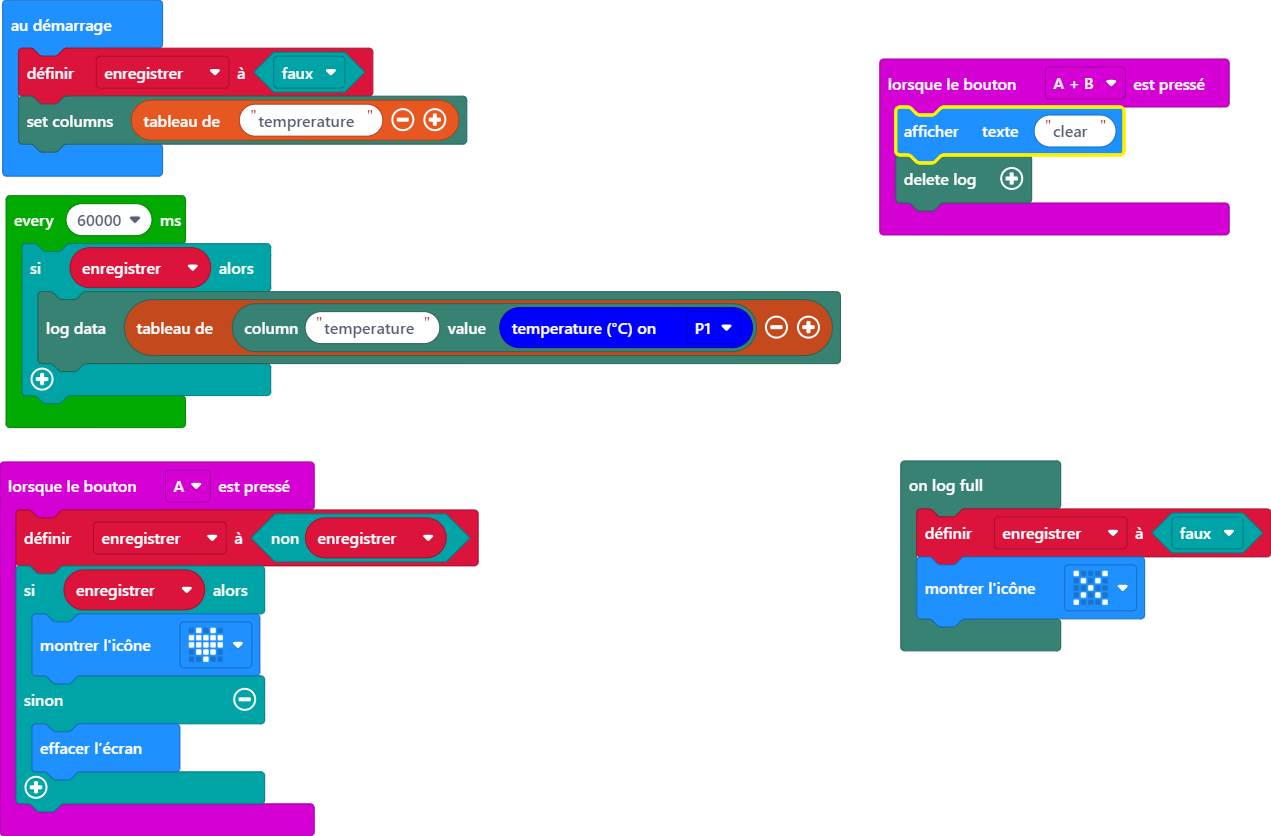
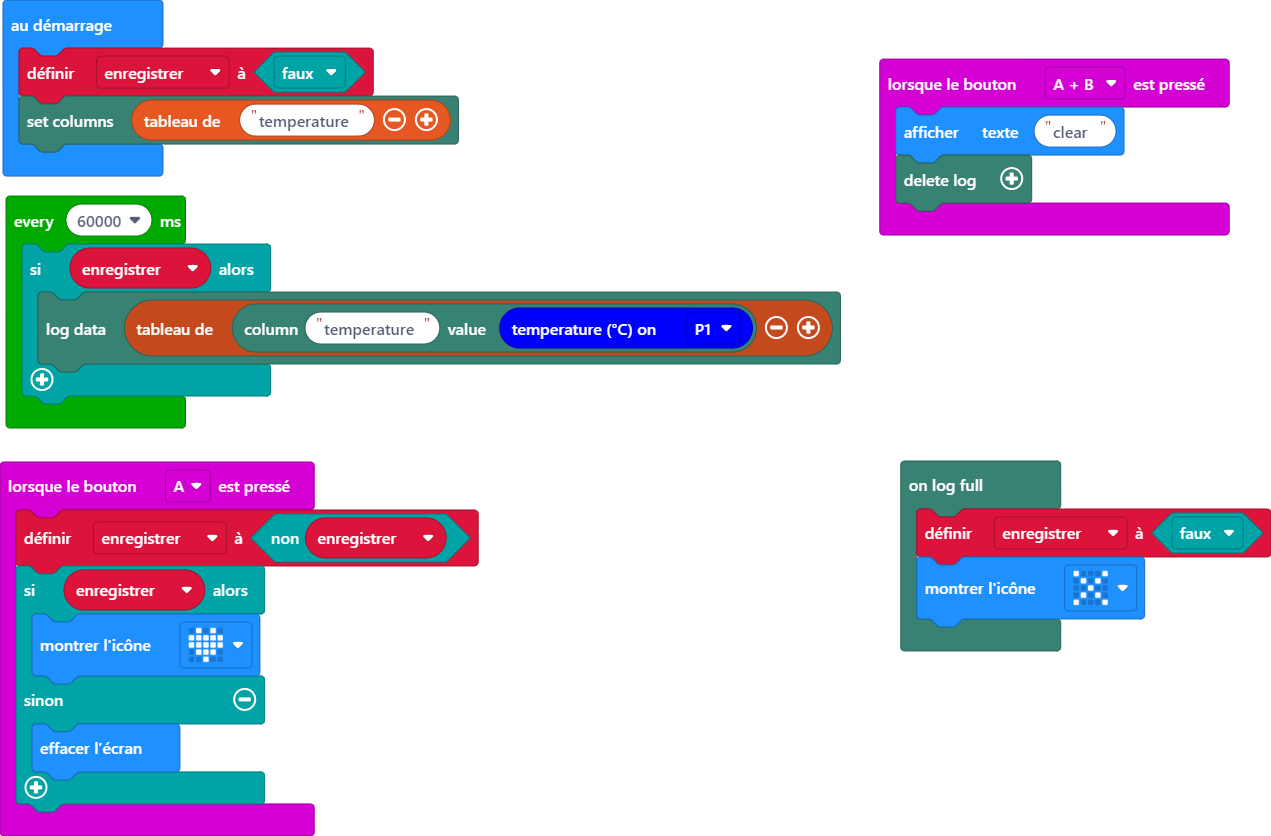
Mise à jour main.blocks, main.ts

diff --git a/main.ts b/main.ts
@@ -16,7 +16,7 @@ input.onButtonPressed(Button.AB, function () {
 })
 let enregistrer = false
 enregistrer = false
-datalogger.setColumns(["temprerature"])
+datalogger.setColumns(["temperature"])
 loops.everyInterval(60000, function () {
     if (enregistrer) {
         datalogger.logData([datalogger.createCV("temperature", dstemp.celsius(DigitalPin.P1))])
